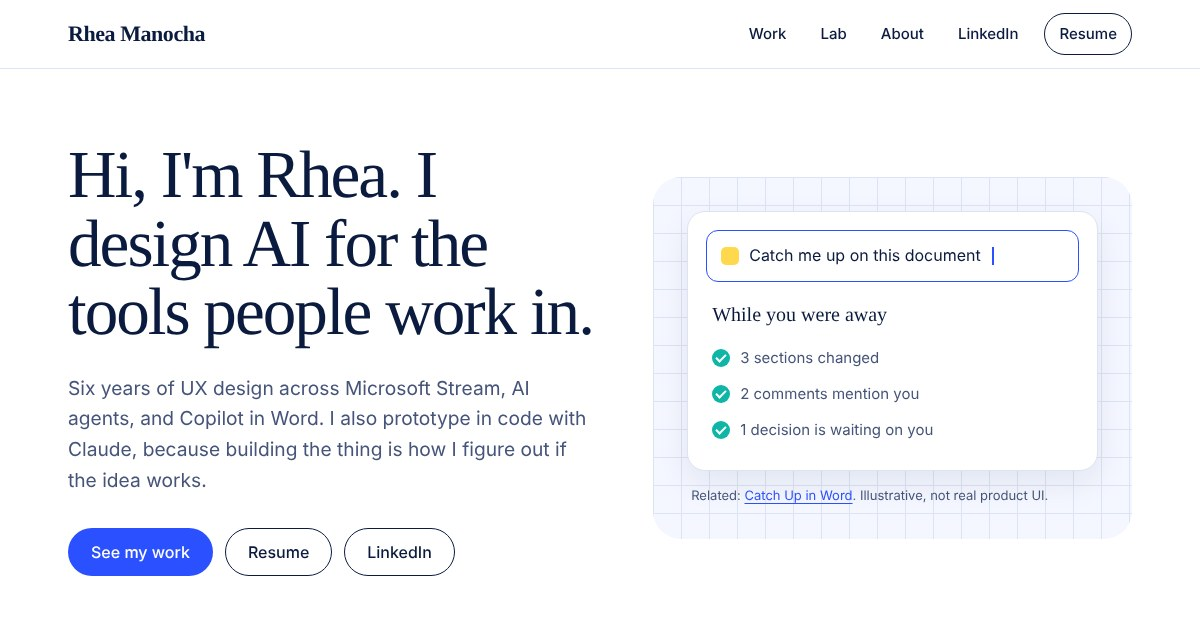
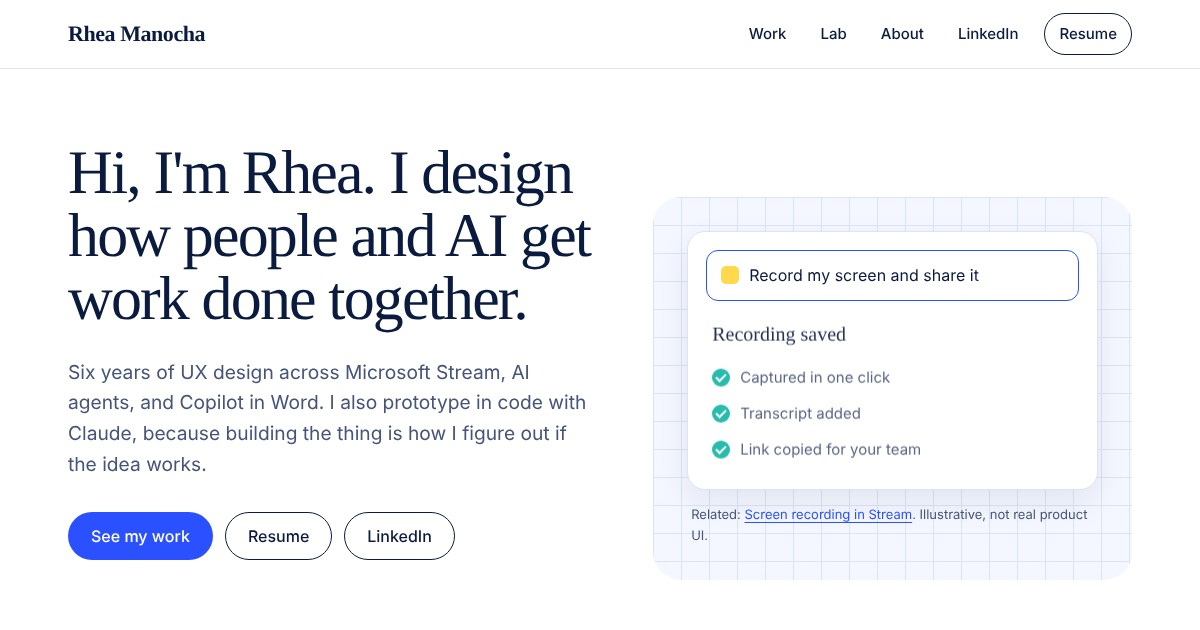
Homepage headline: I design how people and AI get work done together
Claude-Session: https://claude.ai/code/session_014awbfiEWitQCUA7aGJw7XG

diff --git a/preview/index.html b/preview/index.html
@@ -14,7 +14,7 @@
 <meta property="og:image" content="https://rheamanocha.me/preview/assets/img/og-image.jpg">
 <meta property="og:image:width" content="1200">
 <meta property="og:image:height" content="630">
-<meta property="og:image:alt" content="Rhea Manocha's portfolio homepage: Hi, I'm Rhea. I design AI for the tools people work in.">
+<meta property="og:image:alt" content="Rhea Manocha's portfolio homepage: Hi, I'm Rhea. I design how people and AI get work done together.">
 <meta name="twitter:card" content="summary_large_image">
 <meta name="twitter:image" content="https://rheamanocha.me/preview/assets/img/og-image.jpg">
 <link rel="preconnect" href="https://fonts.googleapis.com">

diff --git a/index.html b/index.html
@@ -13,7 +13,7 @@
 <meta property="og:image" content="https://rheamanocha.me/assets/img/og-image.jpg">
 <meta property="og:image:width" content="1200">
 <meta property="og:image:height" content="630">
-<meta property="og:image:alt" content="Rhea Manocha's portfolio homepage: Hi, I'm Rhea. I design AI for the tools people work in.">
+<meta property="og:image:alt" content="Rhea Manocha's portfolio homepage: Hi, I'm Rhea. I design how people and AI get work done together.">
 <meta name="twitter:card" content="summary_large_image">
 <meta name="twitter:image" content="https://rheamanocha.me/assets/img/og-image.jpg">
 <link rel="preconnect" href="https://fonts.googleapis.com">
